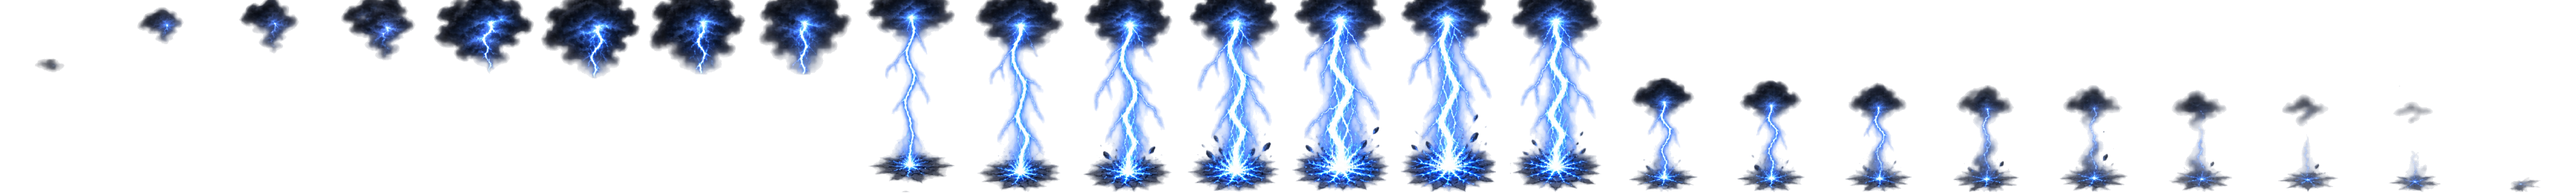
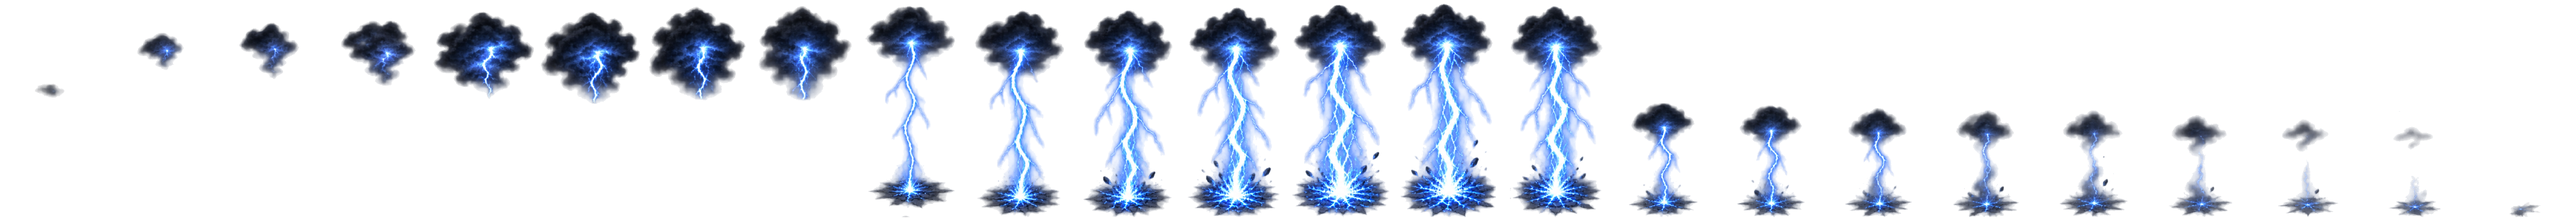
Relâmpago: a nuvem inteira, e o toque no chão com peso
Dono, 12/09: *"ainda não está perfeito, as nuvens dá pra perceber o
recorte quadrado nelas, o toque do raio no solo não está perfeito... quero
um toque forte no solo, atravessando os inimigos que estiverem nele, dando
sensação de impacto."*

## 🔴 O recorte quadrado: medido, 52 px

A janela do corte tem altura fixa e fica pendurada no CHÃO. Nas fileiras
com raio ela começava **52 px abaixo do topo do desenho**, e a nuvem saía
com a tampa cortada em linha reta.

⚠ **Em mistura aditiva isso teria passado despercebido** — a borda some na
soma. Foi a troca para mistura normal, feita algumas horas antes para a
nuvem parar de virar borrão cinza, que revelou o corte. Um conserto expôs
o outro.

✅ Janela 450 → 510 e saída 288 → 326 px, mantendo a MESMA proporção. O vão
da nuvem ao chão continua ocupando 258 px do quadro: **o raio tem
exatamente o mesmo tamanho em tela**, o que entrou foi o topo que faltava.
Medido de novo depois: corte zero em cima e nos lados.

## O toque no chão: quatro coisas, e uma delas nunca existiu

**1. O clarão virou DUAS camadas.** A versão anterior desenhava um anel só,
na camada do chão. Ele marcava a área certa e não batia — passava por trás
de quem estava em cima dele, e um clarão atrás do bicho não ilumina o
bicho. Agora:

  - sob as entidades, o **anel** que abre marcando o raio de dano real;
  - sobre elas, um **disco branco** que some em 120 ms — é ele que lava
    quem está dentro, e é a luz atravessando os inimigos que o dono pediu.
[…]

Changed region(s): [[0.0312, 0.0, 1.0, 1.0], [0.0, 0.3125, 0.0312, 0.4375]]

diff --git a/client/src/main.ts b/client/src/main.ts
@@ -2515,6 +2515,8 @@ async function startGame(playerName: string, charClass: PlayerClass, gender: Gen
      * `t` corre só depois que a animação termina. Ver `desvanece`.
      */
     apaga?: { em: number; t: number };
+    /** 💥 O pulo de escala no instante da batida. Ver o gatilho em `batida`. */
+    tranco?: { t: number; dur: number; base: number };
     /**
      * 🧪 **MODO RISCO** (ver `QUEDA_RISCO`): o traço desenhado por código que
      * cai antes do estouro. Ausente no modo folha, em que a própria animação já
@@ -2562,8 +2564,13 @@ async function startGame(playerName: string, charClass: PlayerClass, gender: Gen
      * chão"*. A rocha da Chuva cai dezoito vezes por conjuração e um tremor
      * grande ali vira convulsão; o raio cai UMA vez, e a tela pode levar o
      * baque inteiro.
+     *
+     * ⚠ **14 px, e eram 11.** Subiu na segunda passada do impacto (*"o toque do
+     * raio no solo não está perfeito... dando sensação de impacto"*), junto com
+     * o clarão em duas camadas e o tranco na escala. O tremor sozinho não
+     * resolvia: ele avisa que bateu, mas não mostra ONDE.
      */
-    lightning_fall: { px: 11, ms: 240 },
+    lightning_fall: { px: 14, ms: 260 },
   };
   const TREMOR_PADRAO = { px: 3, ms: 90 };
 
@@ -3062,8 +3069,14 @@ async function startGame(playerName: string, charClass: PlayerClass, gender: Gen
      *
      * ⚠ **2,90, e a escada foi 0,80 → 1,30 → 1,80 → 2,40 → 2,90.** A última
      * subida é do dono em 12/09: *"aumente o tamanho dele, pode vir um pouco
-     * mais de cima"*. Dá 290 × 522 px em tela, ou **9,1 × 16,3 tiles**, com o
+     * mais de cima"*. Dá 290 × 591 px em tela, ou **9,1 × 18,5 tiles**, com o
      * estouro do chão em ~180 px (5,7 tiles).
+     *
+     * ⚠ **A altura pulou de 522 para 591 sem esta escala mudar**, e não é
+     * engano: o quadro da folha passou de 288 para 326 px quando o corte deixou
+     * de decepar a nuvem. O vão da nuvem ao chão continua ocupando a mesma
+     * fatia do quadro, então **o raio tem exatamente o mesmo tamanho de antes** —
+     * o que entrou foi o topo da nuvem, que estava faltando.
      *
      * 🔴 **"Vir mais de cima" e "maior" são o MESMO botão**, e é por isso que os
      * dois pedidos viraram um número só: a nuvem fica no alto do quadro, então
@@ -3339,6 +3352,19 @@ async function startGame(playerName: string, charClass: PlayerClass, gender: Gen
      * onde a tempestade começa e acaba.
      */
     snowball: { cristais: 16, espalha: 48 },
+    /*
+     * ⛈ **O relâmpago não tinha entrada aqui, e por isso não cuspia NADA.**
+     * `cospeEstilhacos` sai na primeira linha quando a magia não está na tabela;
+     * como o gatilho do impacto dele também não existia até hoje, ninguém tinha
+     * como notar. Dois silêncios somados.
+     *
+     * ⚠ **Vinte e dois num raio de 2 tiles, contra os dezesseis em 1,5 da
+     * Nevasca.** O relâmpago cai UMA vez por conjuração e a Nevasca dez; o que
+     * lá seria excesso, aqui é o único momento em que há o que ver. E o raio
+     * maior é porque o clarão dele tem 3,6 tiles: estilhaço dentro de um clarão
+     * some.
+     */
+    lightning_fall: { cristais: 22, espalha: 64 },
   };
 
   /**
@@ -3596,22 +3622,67 @@ async function startGame(playerName: string, charClass: PlayerClass, gender: Gen
    * que está acertando.
    */
   function clarãoDeImpacto(wx: number, wy: number, raioPx: number): void {
-    const g = new Graphics();
-    g.blendMode = 'add';
-    g.x = wx;
-    g.y = wy;
-    g.zIndex = -0.58;
-    objects.addChild(g);
+    /*
+     * 🔴 **DUAS CAMADAS, e é isso que dá a sensação de impacto** — dono, 12/09:
+     * *"quero um toque forte no solo, atravessando os inimigos que estiverem
+     * nele"*.
+     *
+     * A primeira versão desenhava um anel só, na camada do CHÃO. Ele marcava a
+     * área certa e não batia: passava por trás de quem estava em cima dele, e um
+     * clarão que fica atrás do bicho não ilumina o bicho.
+     *
+     *  - **`chao`** (sob as entidades): o anel que ABRE, marcando onde pegou.
+     *    É a informação — o raio verdadeiro do dano.
+     *  - **`estouro`** (sobre as entidades): um disco branco que some em 120 ms.
+     *    É a sensação — ele lava quem está dentro, e é a luz atravessando os
+     *    inimigos que o dono pediu.
+     *
+     * ⚠ O disco é MUITO mais curto que o anel (120 contra 260 ms). Luz de
+     * impacto que demora a sair lê como fogo, não como raio.
+     */
+    const chao = new Graphics();
+    chao.blendMode = 'add';
+    chao.x = wx;
+    chao.y = wy;
+    chao.zIndex = -0.58;
+    objects.addChild(chao);
+
+    const estouro = new Graphics();
+    estouro.blendMode = 'add';
+    estouro.x = wx;
+    estouro.y = wy;
+    estouro.zIndex = 9999;
+    fxLayer.addChild(estouro);
+
     const nasceu = performance.now();
-    const DUR = 220;
+    const DUR = 260;
+    const FLASH = 120;
     const passo = (): void => {
-      const r = (performance.now() - nasceu) / DUR;
-      if (r >= 1) { g.destroy(); app.ticker.remove(passo); return; }
-      g.clear();
-      // Abre de 25 % a 100 % do raio e some; a borda engrossa junto.
-      const R = raioPx * (0.25 + r * 0.75);
-      g.circle(0, 0, R).stroke({ width: 3 + r * 5, color: 0xdff2ff, alpha: (1 - r) * 0.85 });
-      g.circle(0, 0, R * 0.45).fill({ color: 0xffffff, alpha: (1 - r) * 0.5 });
+      const t = performance.now() - nasceu;
+      const r = t / DUR;
+      if (r >= 1) {
+        chao.destroy();
+        estouro.destroy();
+        app.ticker.remove(passo);
+        return;
+      }
+      chao.clear();
+      /*
+       * ⚠ **Abre depressa e freia** (raiz quadrada), em vez de linear. Uma onda
+       * de choque é rápida no começo; linear lê como um círculo crescendo, que
+       * é desenho de aura e não de batida.
+       */
+      const R = raioPx * (0.2 + Math.sqrt(r) * 0.8);
+      chao.circle(0, 0, R).stroke({ width: 4 + r * 7, color: 0xeafaff, alpha: (1 - r) * 0.9 });
+      chao.circle(0, 0, R * 0.55).stroke({ width: 2 + r * 3, color: 0x9fd8ff, alpha: (1 - r) * 0.55 });
+
+      estouro.clear();
+      if (t < FLASH) {
+        const f = 1 - t / FLASH;
+        // Achatado no eixo Y: é luz deitada no chão, não uma bola de luz.
+        estouro.ellipse(0, 0, raioPx * (0.35 + (1 - f) * 0.5), raioPx * (0.18 + (1 - f) * 0.26))
+          .fill({ color: 0xffffff, alpha: f * 0.75 });
+      }
     };
     app.ticker.add(passo);
   }
@@ -10062,6 +10133,16 @@ async function startGame(playerName: string, charClass: PlayerClass, gender: Gen
             ? (q.batida.raioDano + 0.5) * TS
             : q.node.width * 0.45;
           clarãoDeImpacto(q.node.x, q.node.y, R);
+          /*
+           * 💥 **O TRANCO no próprio desenho.** Um pulo de 6 % na escala que
+           * volta em 120 ms: é o que faz o raio parecer que BATEU, em vez de
+           * ter sido apoiado no chão. Ver `tranco`.
+           *
+           * ⚠ Seis por cento é pouco de propósito. Mais que isso e a coluna
+           * inteira — dezesseis tiles dela — visivelmente incha, e o olho lê
+           * elástico em vez de impacto.
+           */
+          q.tranco = { t: 0, dur: 120, base: q.node.scale.x };
         }
       }
       /*
@@ -10096,6 +10177,17 @@ async function startGame(playerName: string, charClass: PlayerClass, gender: Gen
        * junto com a animação: apagar em paralelo deixaria a descarga pálida
        * justamente quando ela tem de estar no auge.
        */
+      /*
+       * 💥 **O TRANCO.** Meia senoide: sobe até 6 % na metade do tempo e volta.
+       * Escalar e voltar em linha reta faria um pico anguloso, que lê como
+       * falha de quadro.
+       */
+      if (q.tranco) {
+        q.tranco.t += dt;
+        const r = Math.min(1, q.tranco.t / q.tranco.dur);
+        q.node.scale.set(q.tranco.base * (1 + Math.sin(r * Math.PI) * 0.06));
+        if (r >= 1) q.tranco = undefined;
+      }
       if (q.apaga && !q.node.playing && q.node.visible) {
         q.apaga.t += dt;
         q.node.alpha = Math.max(0, 1 - q.apaga.t / q.apaga.em);

diff --git a/client/relampago-preview.html b/client/relampago-preview.html
@@ -21,7 +21,7 @@
   canvas { display: block; image-rendering: pixelated; }
   p { padding: 6px 10px; margin: 0; opacity: .85; }
 </style>
-<canvas id="c" width="960" height="640"></canvas>
+<canvas id="c" width="960" height="720"></canvas>
 <p id="leg"></p>
 <script type="module">
   const c = document.getElementById('c');
@@ -35,7 +35,7 @@
    */
   const DESCARGAS = 4, JANELA = 600, PASSO = JANELA / DESCARGAS, QUEDA = 560;
   const CICLO = DUR + 700;
-  const CX = 460, CHAO = 580;
+  const CX = 460, CHAO = 660;
   const DOIS = location.hash === '#dois';
 
   function quadro(t) {
